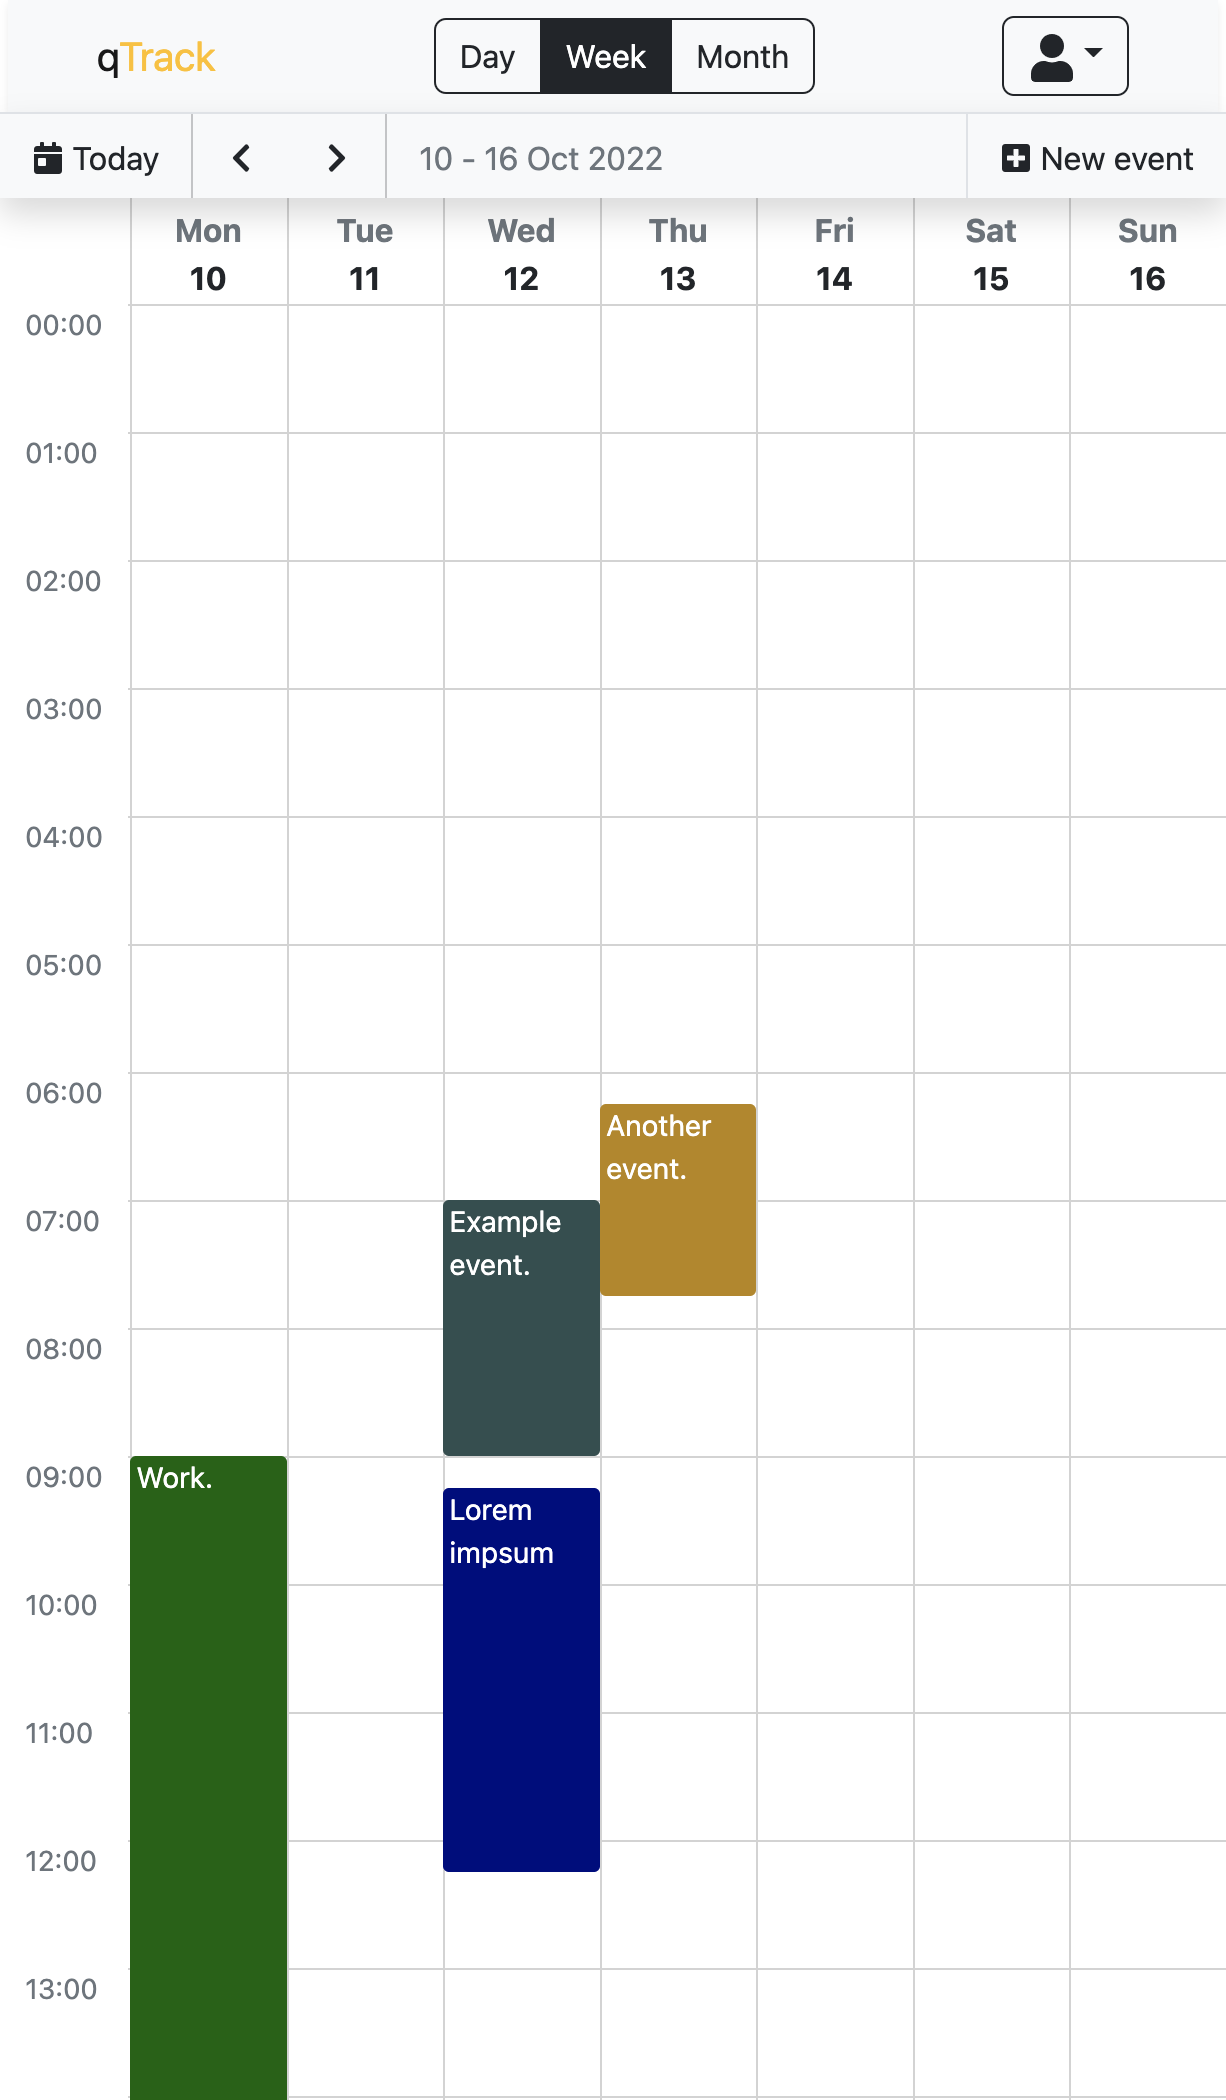
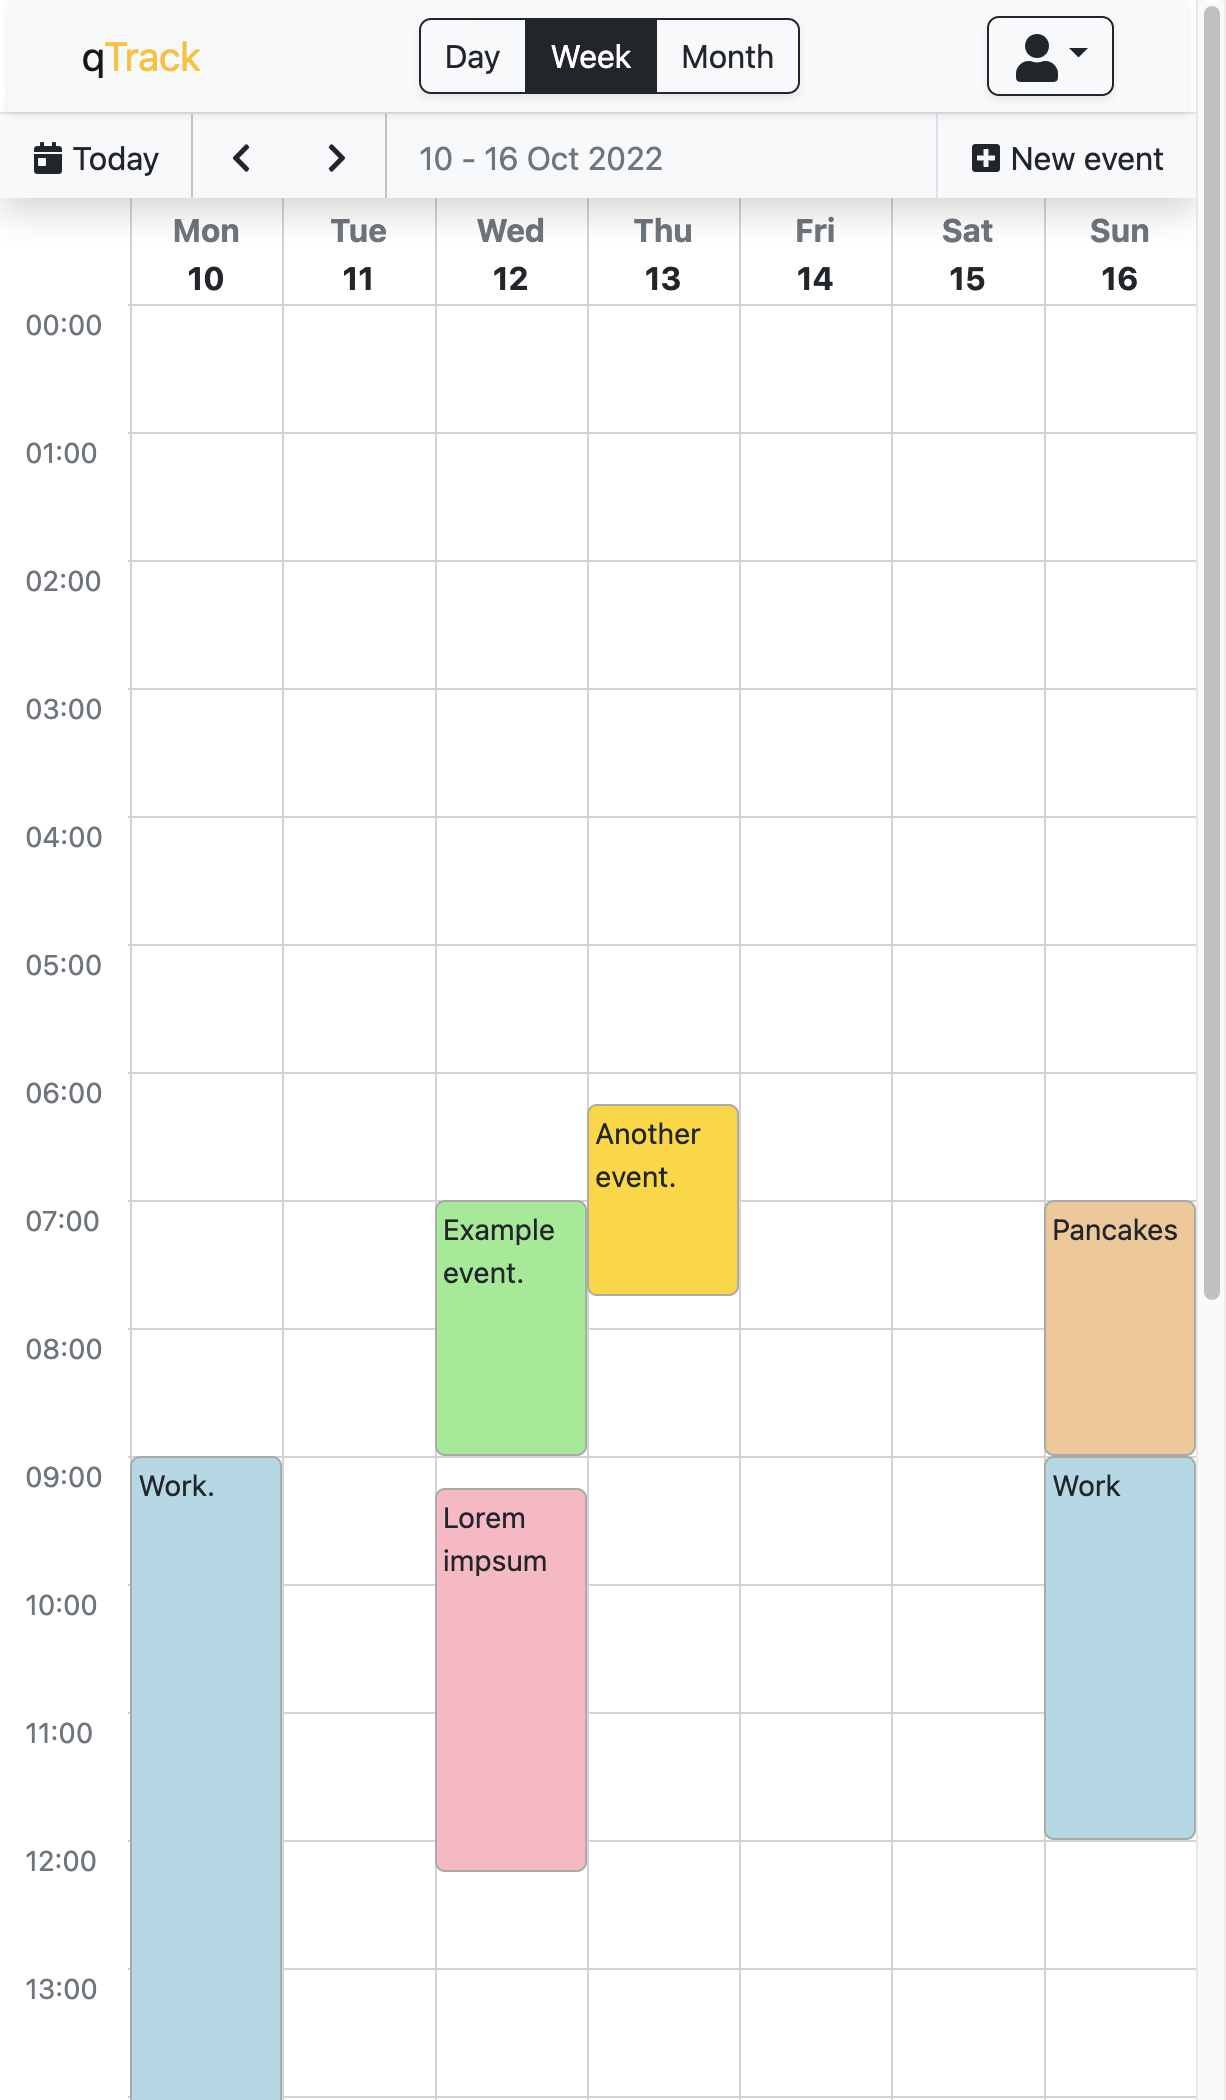
Day view updated. WeekEvent->GridEvent. Visual improvements.

diff --git a/frontend/src/pages/Day.tsx b/frontend/src/pages/Day.tsx
@@ -1,12 +1,67 @@
 // @flow
 import * as React from 'react';
-type Props = {
+import {GridEvent} from '../components/GridEvent';
 
-};
+type Props = {};
 export const Day = (props: Props) => {
     return (
-            <>
-            Day view
-            </>
-            );
+        <>
+            <div className="week">
+                <div className="header">
+                    <ul className="splitter">
+                        <li></li>
+                    </ul>
+
+                    <ul className="selectedDay fw-bold text-muted">
+                        <li>Sunday</li>
+                    </ul>
+
+                    <ul className="selectedDayNumber fw-bold">
+                        <li>16</li>
+                    </ul>
+                </div>
+
+                <div className="timeContainer">
+                    <ul className="times text-muted">
+                        <small>
+                            <li>00:00</li>
+                            <li>01:00</li>
+                            <li>02:00</li>
+                            <li>03:00</li>
+                            <li>04:00</li>
+                            <li>05:00</li>
+                            <li>06:00</li>
+                            <li>07:00</li>
+                            <li>08:00</li>
+                            <li>09:00</li>
+                            <li>10:00</li>
+                            <li>11:00</li>
+                            <li>12:00</li>
+                            <li>13:00</li>
+                            <li>14:00</li>
+                            <li>15:00</li>
+                            <li>16:00</li>
+                            <li>17:00</li>
+                            <li>18:00</li>
+                            <li>19:00</li>
+                            <li>20:00</li>
+                            <li>21:00</li>
+                            <li>22:00</li>
+                            <li>23:00</li>
+                        </small>
+                    </ul>
+                </div>
+
+                <div className="eventsContainer">
+                    <GridEvent day={1} timeStart={700} eventLength={120}
+                               eventColor={'#F3C794'}
+                               eventContent={'Pancakes'}/>
+                    <GridEvent day={1} timeStart={900} eventLength={180}
+                               eventColor={'lightblue'}
+                               eventContent={'Work'}/>
+                </div>
+            </div>
+
+        </>
+    );
 };

diff --git a/frontend/src/pages/Week.tsx b/frontend/src/pages/Week.tsx
@@ -1,6 +1,6 @@
 // @flow
 import * as React from 'react';
-import {WeekEvent} from "../components/WeekEvent";
+import {GridEvent} from '../components/GridEvent';
 
 type Props = {};
 export const Week = (props: Props) => {
@@ -70,19 +70,27 @@ export const Week = (props: Props) => {
                     </ul>
                 </div>
 
-                <div className="eventsContainer">
-                    <WeekEvent day={3} timeStart={700} eventLength={120}
-                               eventColor={'darkslategray'}
+                <div className="eventsContainer eventsContainerWeek">
+                    <GridEvent day={3} timeStart={700} eventLength={120}
+                               eventColor={'lightgreen'}
                                eventContent={'Example event.'}/>
-                    <WeekEvent day={3} timeStart={925} eventLength={180}
-                               eventColor={'navy'}
+                    <GridEvent day={3} timeStart={925} eventLength={180}
+                               eventColor={'lightpink'}
                                eventContent={'Lorem impsum'}/>
-                    <WeekEvent day={4} timeStart={625} eventLength={90}
-                               eventColor={'darkgoldenrod'}
+                    <GridEvent day={4} timeStart={625} eventLength={90}
+                               eventColor={'gold'}
                                eventContent={'Another event.'}/>
-                    <WeekEvent day={1} timeStart={900} eventLength={540}
-                               eventColor={'darkgreen'}
+                    <GridEvent day={1} timeStart={900} eventLength={540}
+                               eventColor={'lightblue'}
                                eventContent={'Work.'}/>
+
+                    <GridEvent day={7} timeStart={700} eventLength={120}
+                               eventColor={'#F3C794'}
+                               eventContent={'Pancakes'}/>
+                    <GridEvent day={7} timeStart={900} eventLength={180}
+                               eventColor={'lightblue'}
+                               eventContent={'Work'}/>
+
                 </div>
             </div>
 

diff --git a/frontend/src/App.css b/frontend/src/App.css
@@ -42,6 +42,13 @@ body {
     grid-template-columns: repeat(7, 1fr);
 }
 
+.selectedDay,
+.selectedDayNumber {
+    text-align: center;
+    display: grid;
+    grid-template-columns: 1fr;
+}
+
 .header {
     grid-area: header;
 }
@@ -89,20 +96,23 @@ body {
 
 .eventsContainer {
     display: grid;
-    grid-template-columns: repeat(7, 1fr);
     grid-template-rows: repeat(96, 1fr);
     grid-area: main;
     position: relative;
 }
 
+.eventsContainerWeek {
+    grid-template-columns: repeat(7, 1fr);
+}
+
 .eventBox {
     display: grid;
     position: absolute;
-    border-radius: 3px;
+    border-radius: 5px;
+    border: 1px solid #aaa;
     z-index: 5;
-    color: white;
     grid-auto-flow: column;
-    padding: 0 0.2rem;
+    padding: 0.2rem 0.2rem;
     font-size: 0.9rem;
     width: 100%;
 }

diff --git a/frontend/src/components/GridEvent.tsx b/frontend/src/components/GridEvent.tsx
@@ -11,7 +11,7 @@ type Props = {
     eventContent: string
 };
 
-export const WeekEvent = (props: Props) => {
+export const GridEvent = (props: Props) => {
     return (
         <div className="eventBox" style={{
             height: (props.eventLength / 15) + "rem",

diff --git a/frontend/src/App.tsx b/frontend/src/App.tsx
@@ -17,7 +17,7 @@ function App() {
 
     return (
         <BrowserRouter>
-            <NavBar isLogged={false}/>
+            <NavBar isLogged={true}/>
 
             <Routes>
                 <Route path="/d" element={

diff --git a/README.md b/README.md
@@ -11,11 +11,17 @@ A time tracking & calendar application.
 <img src="index_view2.png" width="300px" alt="Index View 2">
 </kbd>
 
-### Week View & Home View v1
+### Day View & Week View
 
+<kbd>
+<img src="day_view.png" width="300px" alt="Day View">
+</kbd>
 <kbd>
 <img src="week_view.png" width="300px" alt="Week View">
 </kbd>
+
+### Home View
+
 <kbd>
 <img src="home_view.png" width="300px" alt="Home View">
 </kbd>
